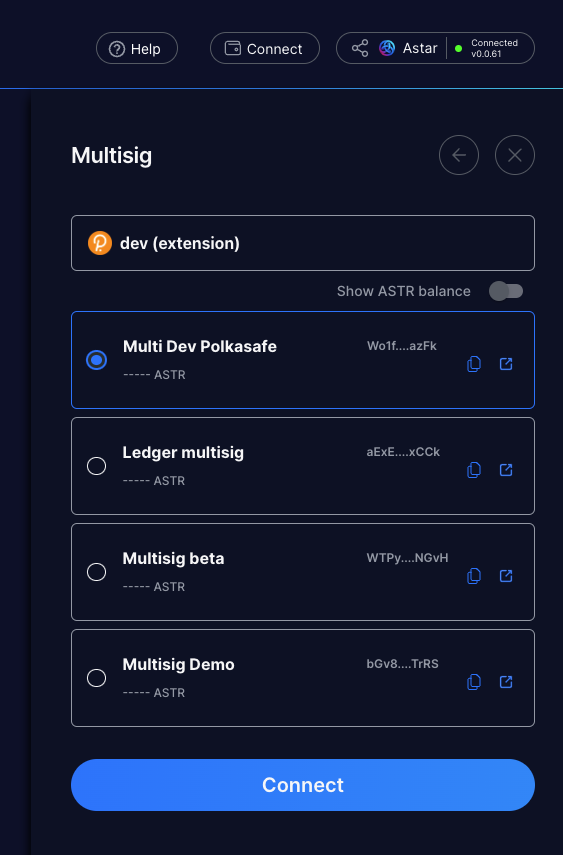
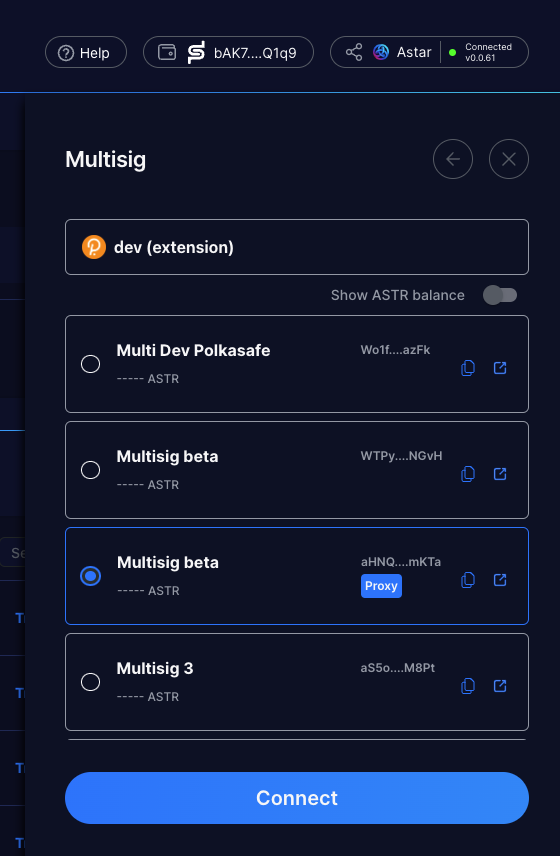
feat: added 'Enable Proxy Signatory Management' section

diff --git a/docs/user-guides/using-a-multisig-account-on-astar-portal.md b/docs/user-guides/using-a-multisig-account-on-astar-portal.md
@@ -46,8 +46,31 @@ Ledger accounts cannot be multisig signatories
 7. Input the threshold number (the minimum required signatures to authorize and execute a transaction) and name the multisig account.
 8. Sign the message to add a small Existential Deposit to the multisig account.
 ![multisig_guide_4.png](img/multisig_guide_4.png)
-9. Now, you can manage your multisig account on PolkaSafe.
+9. Optionally, you can enable proxy signatory management to allow enhanced functionalities for your multisig account. ([See reference](/docs/user-guides/using-a-multisig-account-on-astar-portal#optional-enable-proxy-signatory-management-for-your-multisig-account-on-polkasafe))
+10.  Now, you can manage your multisig account on PolkaSafe.
 ![multisig_guide_5.png](img/multisig_guide_5.png)
+
+## (Optional) Enable Proxy Signatory Management for Your Multisig Account on PolkaSafe
+Adding a proxy account to your multisig account enhances functionality and flexibility. A proxy allows signatories to alter key parameters and setup account backups. Furthermore, the proxy wallet address remains unchanged even when the multisig account's consensus conditions are modified. A proxy can:
+
+1. Edit the Threshold: Alter the number of required signatures for transaction authorization.
+2. Modify Signatories: Change the signatories of the multisig account.
+3. Create Backups: Establish a backup of the multisig account, aiding in seamless asset transfers.
+
+You can add a proxy to your multisig account either during multisig creation or from the account dashboard.
+
+![multisig_guide_12.png](img/multisig_guide_12.png)
+![multisig_guide_13.png](img/multisig_guide_13.png)
+
+Switch to the proxy account by clicking the switch icon.
+![multisig_guide_14.png](img/multisig_guide_14.png)
+
+The address should now display as the proxy account.
+![multisig_guide_15.png](img/multisig_guide_15.png)
+
+:::tip
+Editing a multisig account (e.g., adding signatories) creates a new multisig address linked to the existing proxy address. This new multisig lacks an Existential Deposit, so you must add some balance to the new multisig address before initiating transactions.
+:::
 
 ## Sending Transactions on Astar Portal and Approving them on PolkaSafe
 
@@ -66,5 +89,10 @@ Ledger accounts cannot be multisig signatories
 ![multisig_guide_11.png](img/multisig_guide_11.png)
 
 ## References:
+### PolkaSafe
 * [PolkaSafe Documentation](https://docs.polkasafe.xyz/)
 * [Introduction to Multisig Accounts](https://wiki.polkadot.network/docs/learn-account-multisig)
+* [Creating a pure proxy](https://docs.polkasafe.xyz/setup-polkasafe/creating-a-pure-proxy)
+### Polkadot Wiki
+* [Multi-Signature Accounts](https://wiki.polkadot.network/docs/learn-account-multisig#introduction-to-multisig-accounts)
+* [Proxy Accounts](https://wiki.polkadot.network/docs/learn-proxies)
